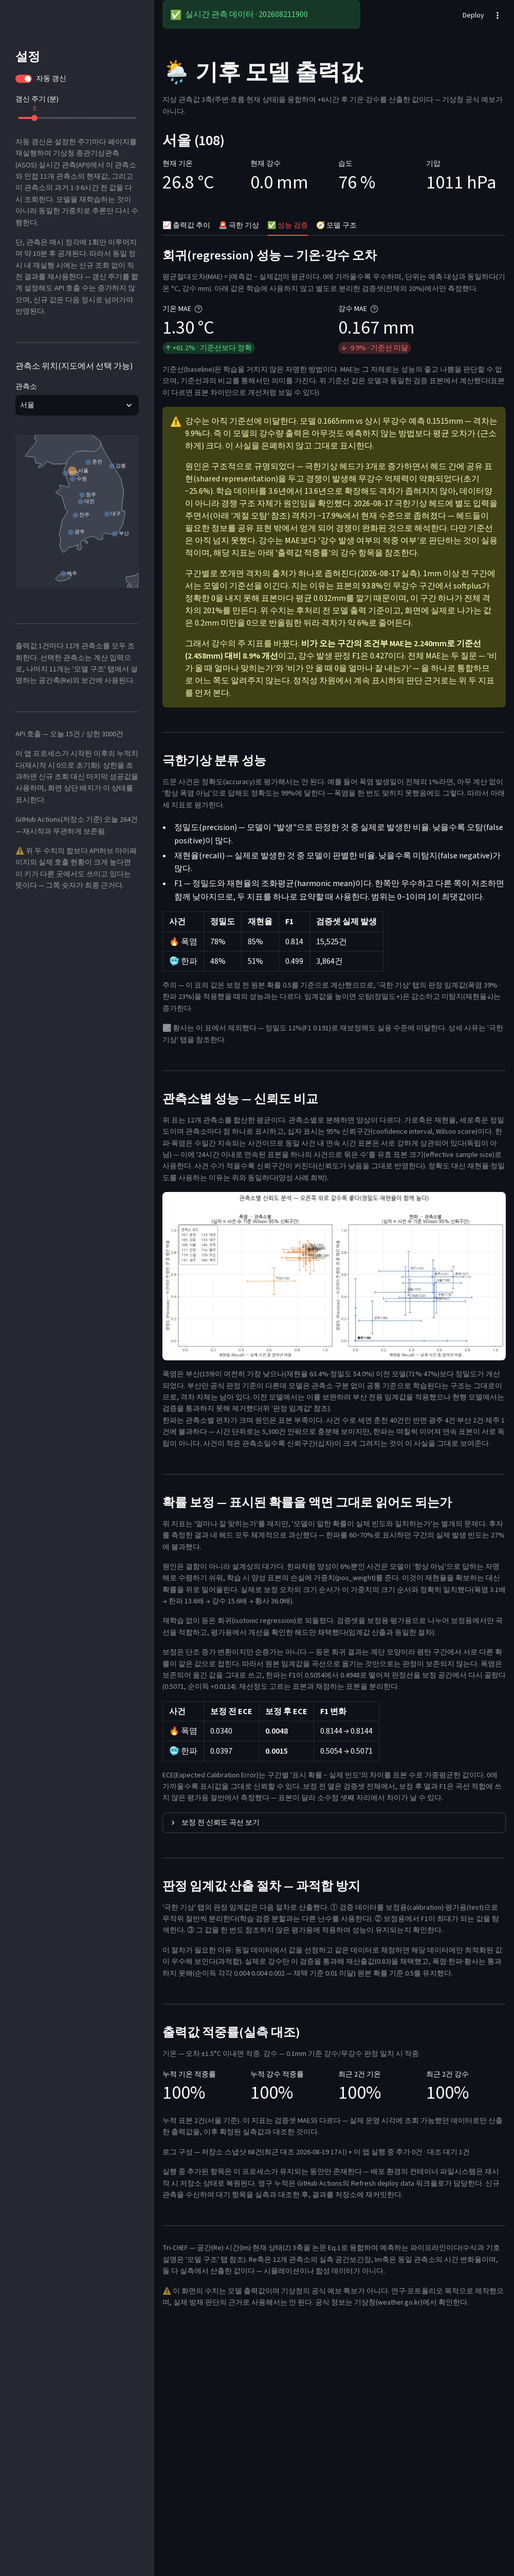
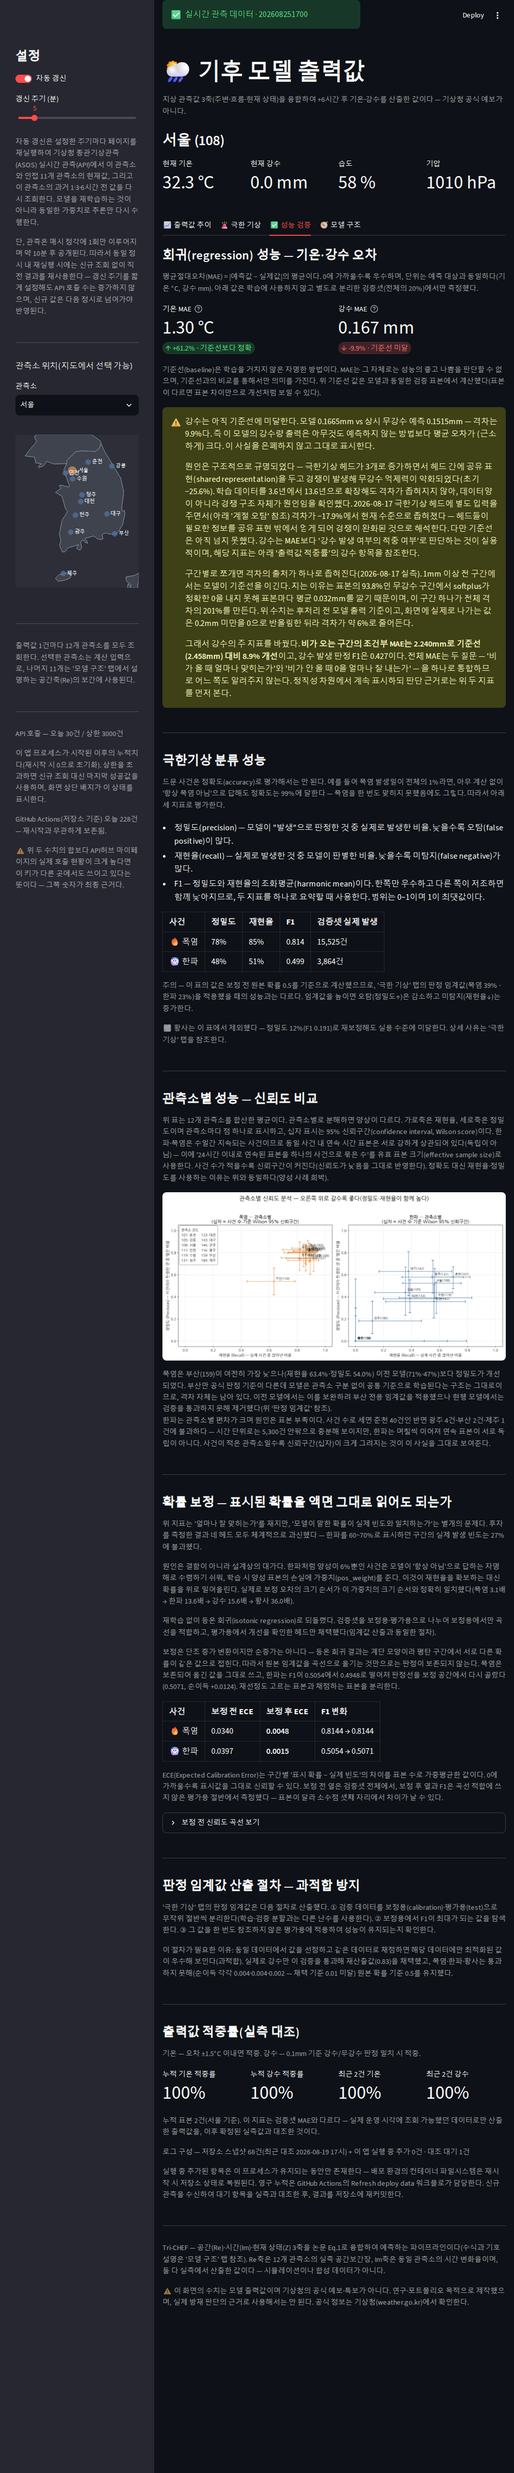
README 종합 갱신 — 스크린샷 재촬영, API 호출량·+12h 저하 폭 정정
배포 코드 기준으로 화면 캡처 4장(출력값 추이·극한 기상·성능 검증·모델 구조)을
다크 모드로 다시 찍고, README를 현재 구현에 맞춰 종합 점검했다.

코드와 대조하는 과정에서 실측 정정 두 건이 나왔다.

① API 호출량이 문서의 절반으로 적혀 있었다. +12시간 2차 산출값을 추가한
2026-08-18 이후 화면 1회 갱신은 predict()를 두 번 호출하는데, 두 리드타임이
같은 관측을 각자 조회하므로 15회가 아니라 30회다. 관측소 1곳에 두 체크포인트로
연달아 추론해 누적 호출 수를 계측(15 → 30)하고, 일일 예산 추정치를 650~1,000회
에서 1,000~1,700회로 고쳤다(차단 지점의 10~17%). 코드에는 결함이 없다 —
캐시 키에 lead_hours가 들어 있어 두 리드타임이 서로를 덮어쓰지 않는다.

② +12시간 화면 캡션이 실제와 반대였다. 채택 당시(2026-08-18)에는 "폭염·강수는
비슷하게 유지되나 한파·황사가 크게 흔들린다"고 적었으나, 2026-08-19 +12h 한파
승격 이후로는 강수가 −9.9%→−25.1%로 가장 크게 무너지고 한파는 0.499→0.509로
오히려 앞선다. 두 배포 체크포인트를 재측정해 캡션과 README 표를 함께 고쳤다.

그 밖에 반영한 것: 관측 이력 창 3단 폴백(2026-08-23) 절 신설, 세로축 눈금 자동
조정(2026-08-25), 탭별 화면 구성표, 게이트 입력 차원 12→14 정정, 배포 산출물
크기 갱신, 한자 표기 양(量)→양(amount), 잘못 놓여 있던 prob-calibration 앵커
수정. 내부 링크 45개가 모두 해석되는 것을 확인했다.

Changed region(s): [[0.31, 0.0, 0.992, 0.9367], [0.031, 0.0, 0.279, 0.3747], [0.93, 0.0624, 0.961, 0.0937]]

diff --git a/app.py b/app.py
@@ -149,8 +149,14 @@ def obs_hour_key() -> str:
 #
 # 캐시 키에 관측 시각을 넣어 호출량을 시계에 묶는다 — 같은 정시 안에서는
 # 몇 명이 몇 번을 새로고침하든 결과를 재사용하므로 추가 호출이 0이다.
-# 관측소당 시간당 15회가 상한이고, 이는 자동 갱신 주기와 무관하다.
 # 애초에 ASOS 는 매시 정각 관측이라 같은 시각을 다시 조회해도 같은 값이다.
+#
+# 상한은 관측소당 시간당 30회다(2026-08-25 실측 정정) — 화면이 +6h·+12h 를
+# 함께 표시하므로 산출값이 2건이고, 두 리드타임이 서로 다른 캐시 항목이라
+# 같은 15건을 각자 조회한다. 15 회는 산출값 1건 기준이다. 첫 조회 결과를
+# 두 체크포인트가 공유하게 하면 30 을 15 로 되돌릴 수 있으나, 관측 수집과
+# 추론을 분리하도록 predict() 시그니처를 바꿔야 해서 지금은 두지 않는다
+# (실사용 호출량이 차단 지점의 10~17% 수준 — README 'API 트래픽' 참고).
 #
 # model/ckpt 는 언더스코어 접두어로 넘긴다 — Streamlit 이 해시 대상에서
 # 제외하는 규약이다(torch 모듈은 해시할 수 없다).
@@ -1008,13 +1014,20 @@ with tab_trend:
         )
         ckpt_12h = None
     if result_12h is not None:
+        # 이 문구는 한 번 낡았다(2026-08-25 정정). 채택 당시(2026-08-18)에는
+        # "폭염·강수는 비슷하게 유지되나 한파·황사가 크게 흔들린다"고 적었는데,
+        # 그 뒤 +12h 한파 헤드에 중첩 전이학습을 적용해(2026-08-19, F1
+        # 0.453→0.509) 한파가 오히려 +6h 를 앞질렀다. 두 체크포인트를 다시
+        # 재서 실제 방향으로 고쳤다 — 리드타임별 저하 폭은 지표마다 다르며,
+        # 가장 크게 무너지는 것은 강수다.
         st.caption(
-            "+12시간은 2차 산출값이다 — 절대오차가 +6시간보다 크고(기온 "
-            "1.30→1.66°C, 검증셋 평균), 계절 오탐 검증도 배포본(0.06%)보다 "
-            "높게 나왔다(5.41%, 차단 기준 10% 미만이라 채택). 폭염·강수는 "
-            "+6시간과 비슷하게 유지되나 한파·황사는 리드타임이 늘수록 더 크게 "
-            "흔들린다. '성능 검증' 탭 수치는 +6시간 기준이며 이 값의 영향을 "
-            "받지 않는다."
+            "+12시간은 2차 산출값이다 — 절대오차가 +6시간보다 크다(기온 MAE "
+            "1.30→1.66°C, 검증셋 평균). 저하 폭은 지표마다 다르다: 강수가 "
+            "가장 크게 무너지고(기준선 대비 −9.9%→−25.1%), 폭염이 그다음이며"
+            "(F1 0.814→0.776), 한파·황사는 사실상 유지된다(0.499→0.509, "
+            "0.191→0.192 — 한파는 중첩 전이학습을 따로 적용한 결과다). 계절 "
+            "오탐은 1.21%로 차단 기준(10%) 아래다. '성능 검증' 탭 수치는 "
+            "+6시간 기준이며 이 값의 영향을 받지 않는다."
         )
 
     history, history_source = load_merged_history()
